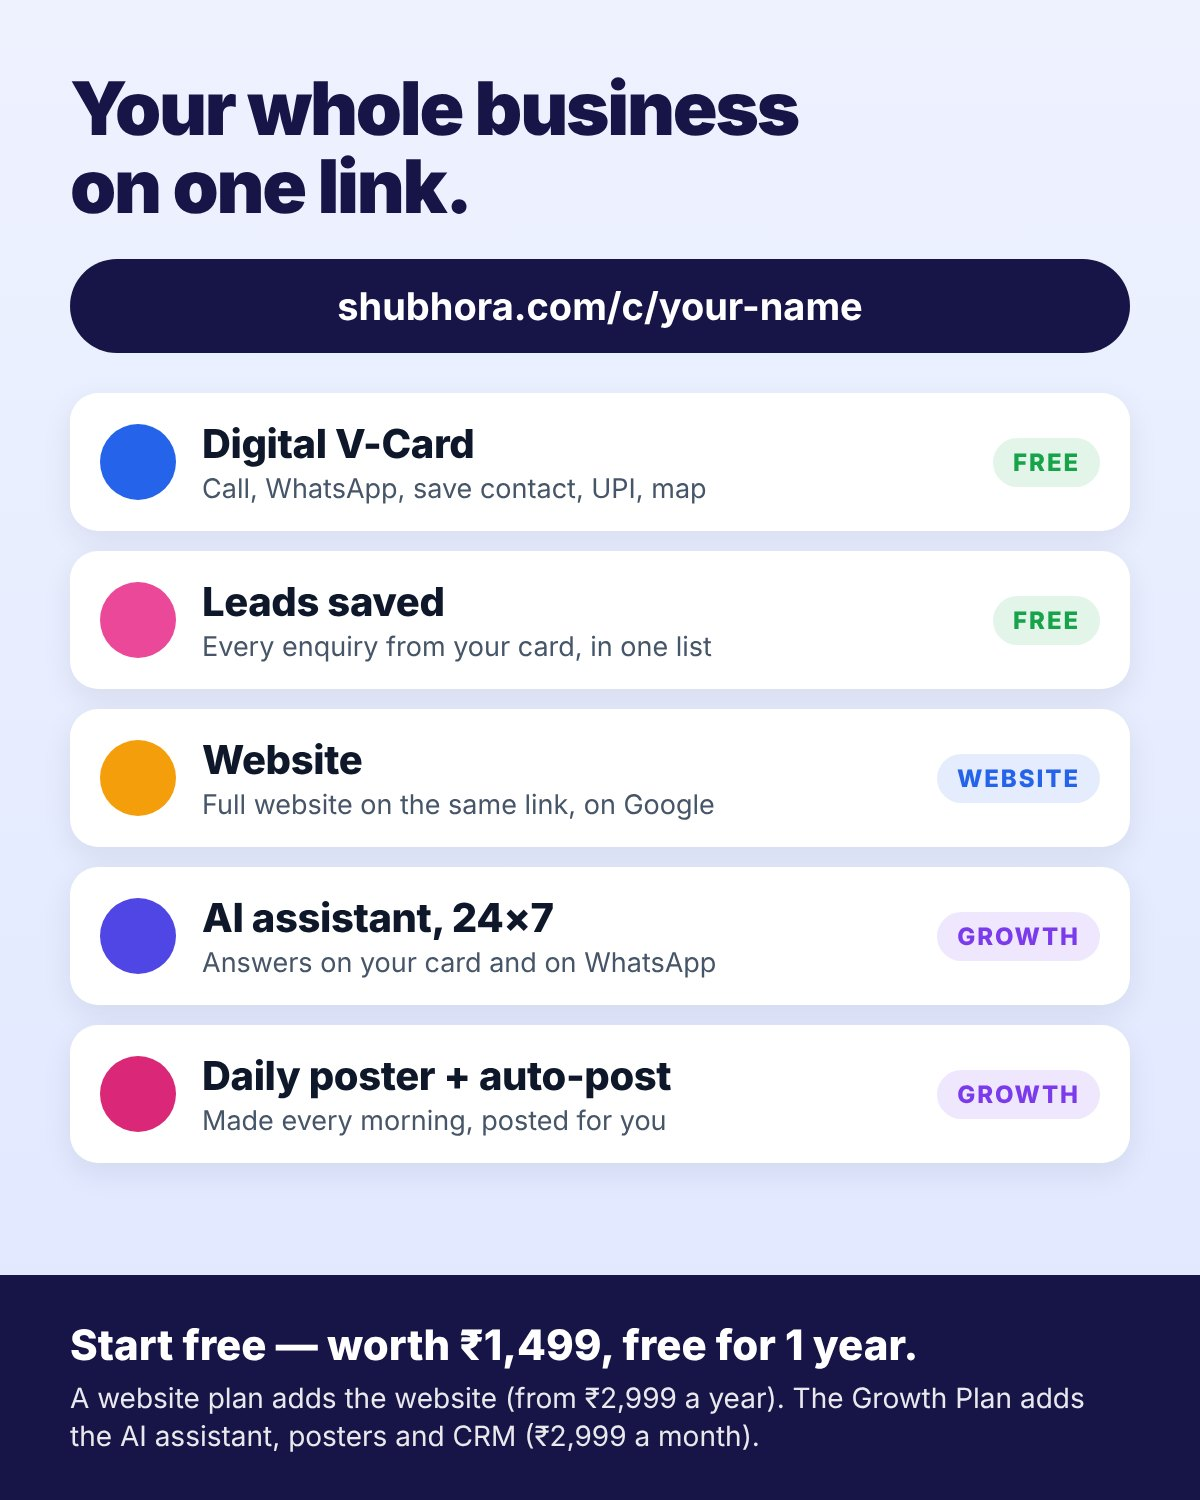
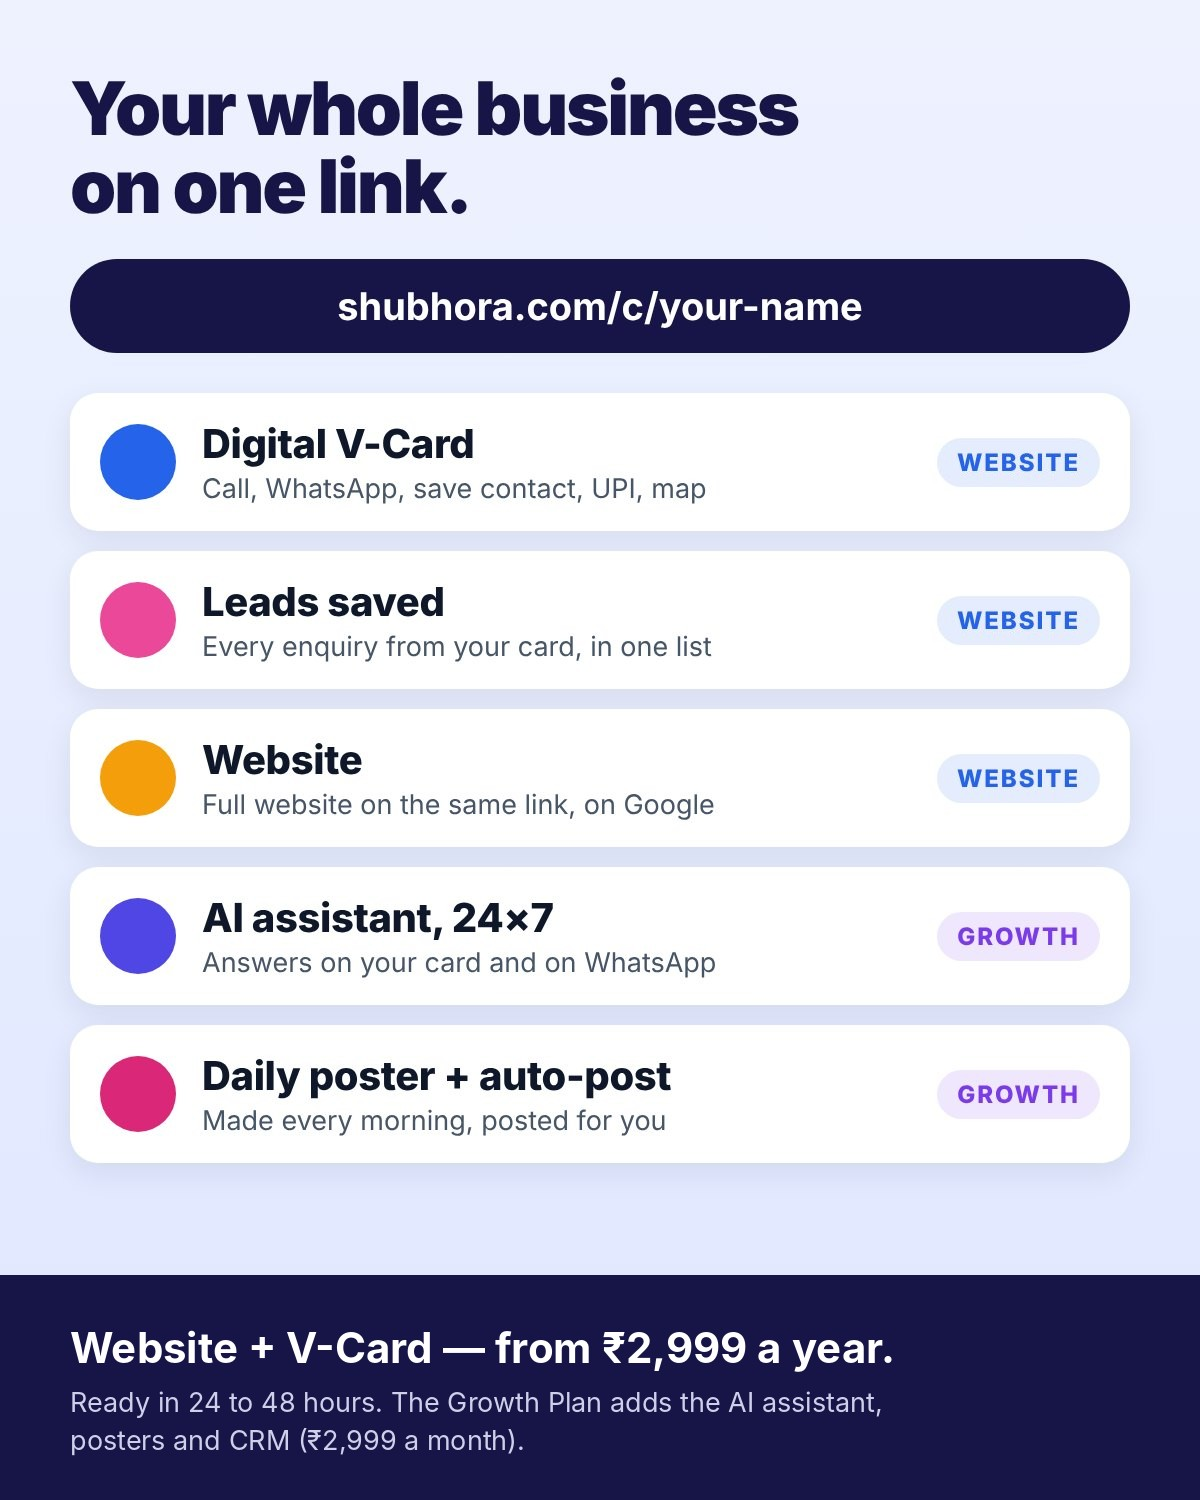
Website design link opens the 12 designs; one-link picture without FREE; menu view fixed on top; Lead sources

Changed region(s): [[0.0617, 0.8893, 0.8942, 0.9813], [0.7708, 0.276, 0.8942, 0.3373], [0.7708, 0.3987, 0.8942, 0.4293]]

diff --git a/src/components/poster/site-builder-options.tsx b/src/components/poster/site-builder-options.tsx
@@ -16,9 +16,9 @@ export function SiteBuilderOptions(_props: { cardId: string; templateKey?: strin
     <section className="rounded-xl border border-brand/40 bg-brand-soft/30 p-3 space-y-3">
       <p className="text-sm font-semibold">{hi ? "Website और बेहतर करें" : "Improve your website"}</p>
       <div className="grid grid-cols-2 gap-2">
-        <Link href="/poster/card/build?improve=1" className="rounded-xl border-2 border-border bg-surface p-3 text-left hover:border-brand">
+        <Link href="/poster/site/choose" className="rounded-xl border-2 border-border bg-surface p-3 text-left hover:border-brand">
           <span className="flex items-center gap-1.5 text-sm font-semibold"><LayoutTemplate className="h-4 w-4 text-brand" /> {hi ? "Look बदलें" : "Change the look"}</span>
-          <span className="mt-0.5 block text-[11px] text-good font-semibold">{hi ? "Free · 5 looks, तुरंत live" : "Free · 5 looks, live at a tap"}</span>
+          <span className="mt-0.5 block text-[11px] text-good font-semibold">{hi ? "12 designs, तुरंत live" : "12 designs, live at a tap"}</span>
         </Link>
         <Link href="/poster/card/build?improve=1&ask=1" className="rounded-xl border-2 border-border bg-surface p-3 text-left hover:border-brand">
           <span className="flex items-center gap-1.5 text-sm font-semibold"><Sparkles className="h-4 w-4 text-brand" /> {hi ? "AI से बेहतर करें" : "Improve with AI"}</span>

diff --git a/src/app/poster/website/edit/page.tsx b/src/app/poster/website/edit/page.tsx
@@ -694,7 +694,7 @@ export default function WebsiteEditPage() {
         <section className="space-y-2.5 rounded-2xl border border-border bg-surface p-3.5 shadow-card">
           <FoldGroups prefix="look" is={foldIs} tap={foldTap}>
           {/* A Premium website's own design lives on the Premium page (owner, 25 Oct 2026: "premium hai to premium design par jaana chahiye"). */}
-          <p className="text-[11px] text-muted">{hi ? "Design बदलना हो तो " : "To change the design, go to "}<Link href={adv ? "/poster/site/advanced" : "/poster/card/build?improve=1"} className="font-semibold text-brand-ink">{adv ? (hi ? "Premium design" : "Premium design") : (hi ? "Website का design" : "Website design")}</Link>.</p>
+          <p className="text-[11px] text-muted">{hi ? "Design बदलना हो तो " : "To change the design, go to "}<Link href="/poster/site/choose" className="font-semibold text-brand-ink">{hi ? "Website का design (12 में से चुनें)" : "Website design (choose from 12)"}</Link>.</p>
           {/* Premium: the letters, the top and the corners are the Premium design's own (spec.fonts / spec.hero / spec.shape) — the basic
               site's choices below never reached it, so a tap changed nothing (owner, 25 Oct 2026). */}
           {adv ? (<>

diff --git a/src/lib/templates.ts b/src/lib/templates.ts
@@ -1004,7 +1004,7 @@ const vcardReseller: CardTemplateDef = {
             "🗣 Card in 10 languages (Website plan)",
           ] },
           { id: uid("vh", 3), kind: "image", title: "Five tools, one link", images: [
-            { url: "/art/shubhora/one-link.jpg", caption: "Your website and digital card come with every website plan, and every enquiry is saved as a lead. The Growth Plan adds the daily poster, the WhatsApp AI, the CRM and Google reviews." },
+            { url: "/art/shubhora/one-link-v2.jpg", caption: "Your website and digital card come with every website plan, and every enquiry is saved as a lead. The Growth Plan adds the daily poster, the WhatsApp AI, the CRM and Google reviews." },
           ] },
           { id: uid("vh", 4), kind: "cta", title: "This page IS the product", body: "Everything you are scrolling now is what your own card will look like — with your name, your products and your number. Most people have theirs live in about 10 minutes.", joinUrl: "#plans", joinLabel: "See plans and prices", referralCode: "" },
           { id: uid("vh", 5), kind: "services", title: "What you get", items: [

diff --git a/src/lib/shubhora-page.ts b/src/lib/shubhora-page.ts
@@ -199,6 +199,8 @@ const FREE_SAY: [RegExp, string][] = [
   [/ before you decide — free\./g, " before you decide."],
   [/makes your own card in that design, free — /g, "starts your own website in that design — "],
   [/ — free on every plan\./g, " — on every plan."],
+  // The "one link" picture said FREE on the V-Card and "Start free — worth ₹1,499": redrawn without it under a new name (old copies cached).
+  [/\/art\/shubhora\/one-link\.jpg/g, "/art/shubhora/one-link-v2.jpg"],
 ];
 const sayNoFree = (s: string) => FREE_SAY.reduce((t, [re, to]) => t.replace(re, to), s);
 
